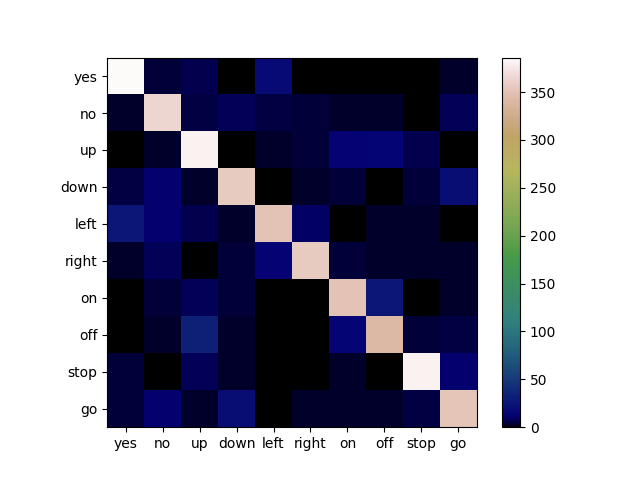
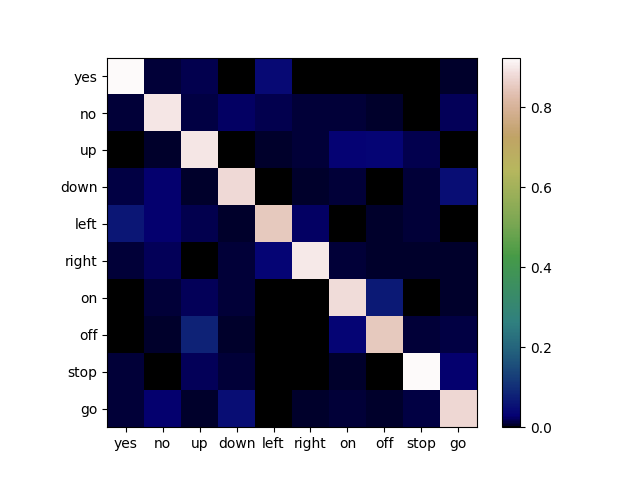
t

diff --git a/main.py b/main.py
@@ -146,53 +146,35 @@ if __name__ == "__main__":
             audioModel.test(model, 1, test_loader, device, transform, pbar, pbar_update)
             scheduler.step()
 
-    input_x = list(range(1, len(labels) + 1))
     output_y = [[0] * 10 for i in range(0, 10)]
-    print(input_x)
-    print(output_y)
     
     if(run_full_test == True): #will update later on!
         for fileIndex in range(0, len(test_set)):
             waveform, sample_rate, utterance, *_ = test_set[fileIndex]
-            # ipd.Audio(waveform.numpy(), rate=sample_rate)
-            if(waveform.size()[0] == 1 and waveform.size()[1] == 16000):
-                #print("valid")
-                try:
-            #print(waveform.size()[1])
-                    output = audioModel.predict(waveform, model, device, transform, importDataset.index_to_label)
-                    output_y[labels.index(utterance)][labels.index(output)] += 1
-                    #print(labels.index(output))
-                    #print("Non-padded output predicted:", str(utterance) , "-->", str(output) )
-                except:
-                    print("Predict failed: ", str(fileIndex))
-            else:
-                #print("Size does not match: ", str(fileIndex), str(sample_rate))
+            if(waveform.size()[1] != 16000):
                 pad_vals = (0, 16000 - waveform.size()[1])
                 padded_waveform = torch.nn.functional.pad(waveform, pad_vals, mode='constant', value=0)
+                output = audioModel.predict(padded_waveform, model, device, transform, importDataset.index_to_label)
+            else:
+                output = audioModel.predict(waveform, model, device, transform, importDataset.index_to_label)
+            output_y[labels.index(utterance)][labels.index(output)] += 1
+        #end for
+        
+        graph_data = []
+        for y in output_y:
+            total_tests = np.sum(y)
+            graph_data.append([num / total_tests for num in y])
 
-                try:
-                    output = audioModel.predict(padded_waveform, model, device, transform, importDataset.index_to_label)
-                    output_y[labels.index(utterance)][labels.index(output)] += 1
-                    #print(labels.index(output))
-                    #print("Padded output predicted:", str(utterance) , "-->", str(output) )
-                except:
-                    print("Padded predict failed: ", str(fileIndex))
+        graph_data = np.array(graph_data)
+        fig = plt.figure()
 
-    print(output_y)
-    graph_data = []
-    for y in output_y:
-        total_tests = np.sum(y)
-        graph_data.append([num / total_tests for num in y])
-
-
-    graph_data = np.array(graph_data)
-    fig = plt.figure()
-
-    plt.imshow(graph_data, cmap='gist_earth', interpolation='nearest')
-    plt.xticks(range(0, 10), labels=labels)
-    plt.yticks(range(0, 10), labels=labels)
-    plt.colorbar()
-    fig.savefig("heatGraph.png")
+        plt.imshow(graph_data, cmap='gist_earth', interpolation='nearest')
+        plt.xticks(range(0, 10), labels=labels)
+        plt.yticks(range(0, 10), labels=labels)
+        plt.colorbar()
+        fig.savefig("heatGraph.png")
+    
+    
     exit(0)
     if(save_model == True):
         torch.save(model.state_dict(), save_model_file)
